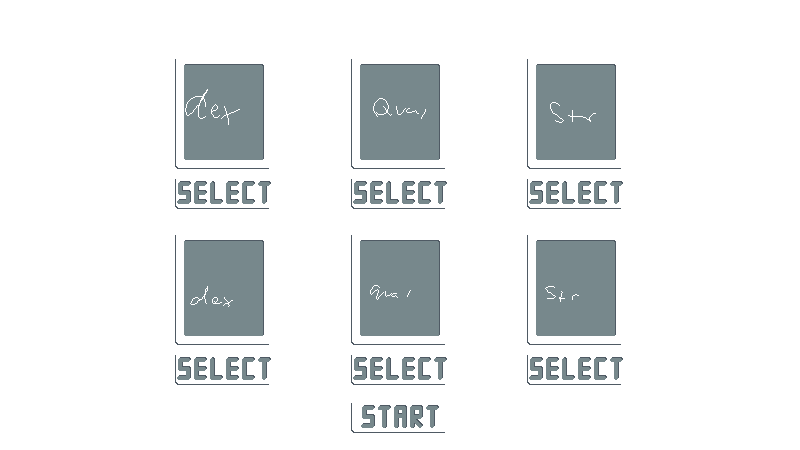
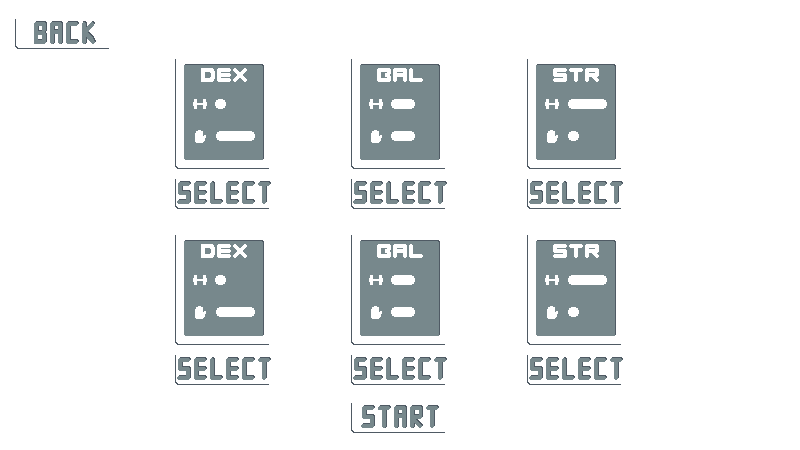
update weapon select

diff --git a/scenes.py b/scenes.py
@@ -25,6 +25,8 @@ class ExampleScene(Scene):
         #self.add_entity(btn1)
         self.add_entity(self.player)
         self.add_entity(self.hud)
+        self.app.paused = False
+        self.app.timer = 0
 
     def update(self):
         if self.app.paused:
@@ -115,13 +117,14 @@ class WeaponSelectScene(Scene):
         self.add_entity(start_run_btn)
 
         back_btn = Button(self.app, self.back_on_click, "sheet_2_back_button", [])
-        back_btn.pos = pygame.Vector2(16,16)
+        back_btn.pos = pygame.Vector2(32,32)
         back_btn.z_index = 1 
         self.add_entity(back_btn)
 
         self.weapon_buttons = [qua_melee_btn, qua_ranged_btn, str_melee_btn, str_ranged_btn, dex_melee_btn, dex_ranged_btn]
 
     def update(self):
+        self.app.paused = True
         super().update()
 
     def back_on_click(self):
@@ -160,6 +163,7 @@ class MainMenu(Scene):
         self.add_entity(menu)
 
     def update(self):
+        self.app.paused = True
         super().update()
     
     def draw(self, screen):

diff --git a/app.py b/app.py
@@ -20,7 +20,7 @@ class App:
         pygame.display.set_caption(self.name) 
         self.timer = 0
         self.running = True
-        self.paused = False
+        self.paused = False 
 
         self.scenes = {}
         self.current_scene = ""
